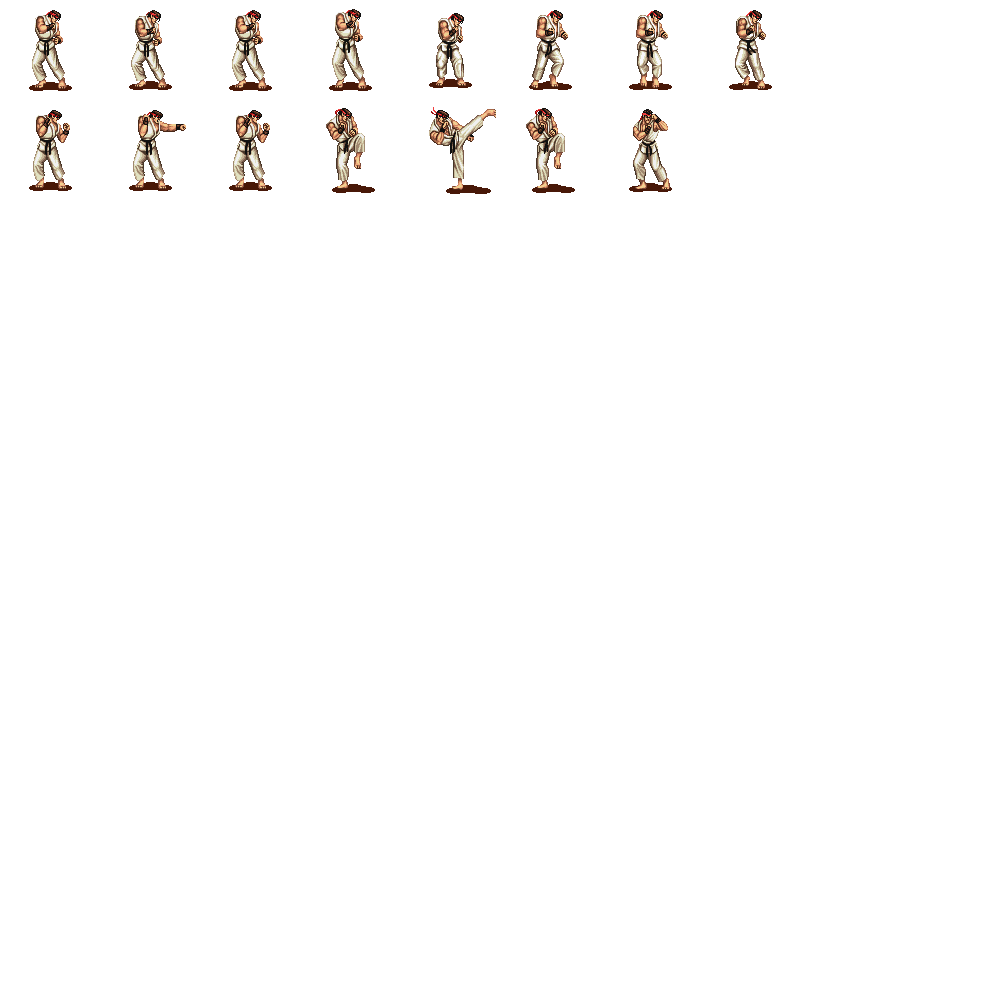
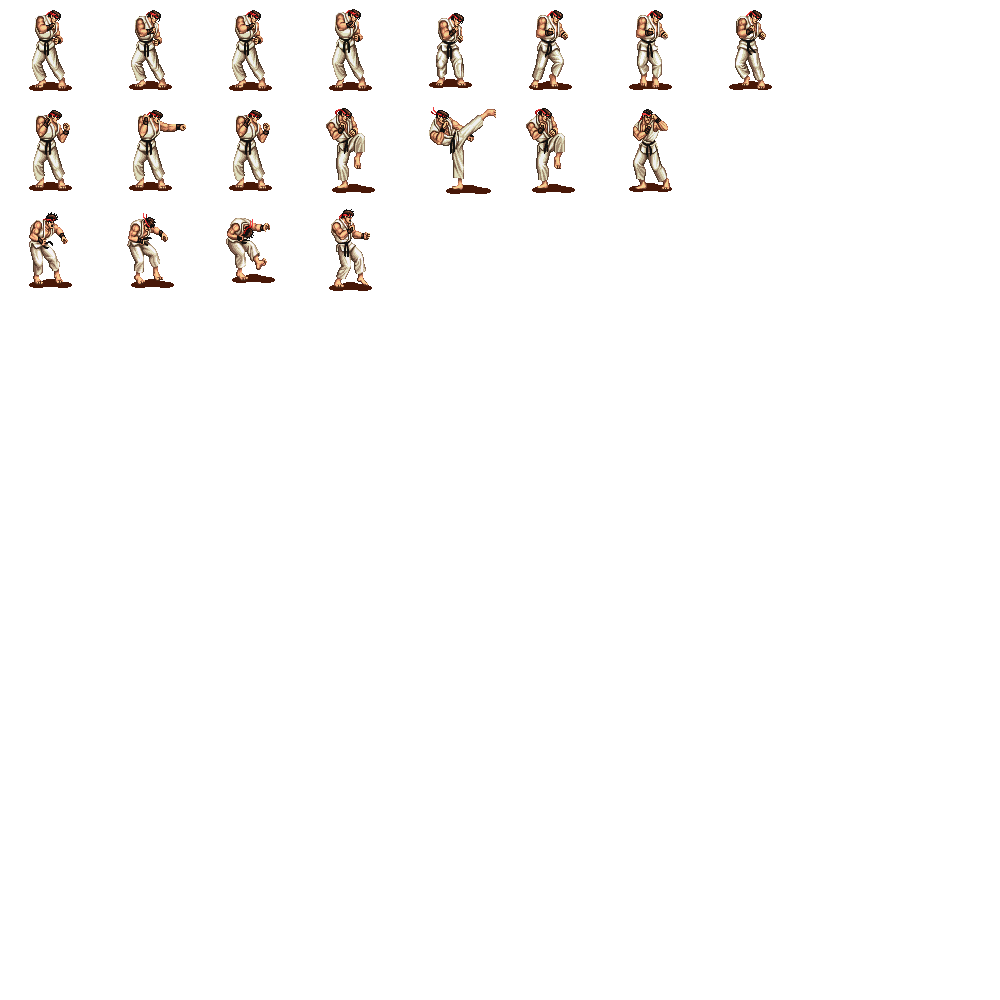
Ajouté sprites + animations hit (pas encore intégration js)

diff --git a/script.js b/script.js
@@ -1,5 +1,5 @@
 /*jslint eqeq: true, sloppy: true*/
-/*global createjs, keyPress, keyRelease,creationPerso1,creationPerso2,tick,walkRightPerso1,gestionVie*/
+/*global createjs, keyPress, keyRelease,creationPerso1,creationPerso2,tick,walkRightPerso1,gestionVie,reloadPage*/
 
 var stage,
     imgPerso1 = new Image(),
@@ -213,13 +213,14 @@ function creationPerso1() {
             walkPerso1: [4, 8, true, 0.1],
             punch1Perso1: [10, 12, false, 0.15],
             kick1Perso1: [13, 15, false, 0.1],
-            blockPerso1: [16, 16, false, 0.1]
+            blockPerso1: [16, 16, false, 0.1],
+            hitPerso1: [20, 23, false, 0.15]
         }
     });
 
     perso1 = new createjs.Sprite(ss, "standPerso1");
-    perso1.scaleX = 1.2;
-    perso1.scaleY = 1.2;
+    perso1.scaleX = 1.35;
+    perso1.scaleY = 1.35;
     perso1.x = stage.canvas.width / 2 - 200;
     perso1.y = stage.canvas.height - 90;
 
@@ -241,15 +242,16 @@ function creationPerso2() {
             walkPerso2: [4, 8, true, 0.1],
             punch1Perso2: [10, 12, false, 0.1],
             kick1Perso2: [13, 15, false, 0.1],
-            blockPerso2: [16, 16, false, 0.1]
+            blockPerso2: [16, 16, false, 0.1],
+            hitPerso2: [20, 23, false, 0.15]
         }
     });
 
     perso2 = new createjs.Sprite(ss, "standPerso2");
     perso2.x = stage.canvas.width / 2 + 200;
     perso2.y = stage.canvas.height / 2 + 111;
-    perso2.scaleX = -1.2;
-    perso2.scaleY = 1.2;
+    perso2.scaleX = -1.35;
+    perso2.scaleY = 1.35;
 
     perso2.gotoAndPlay("standPerso2");
     stage.addChild(perso2);
@@ -392,6 +394,11 @@ function gestionVie() {
         stage.update();
         break;
     }
+}
+
+function animationsDegats() {
+
+    // Si une attaque est portée sur un personnage, animation de hit pour le personnage touché
 }
 
 // Dès que la page est chargée, on appelle notre fonction init, initiatrice du projet.
